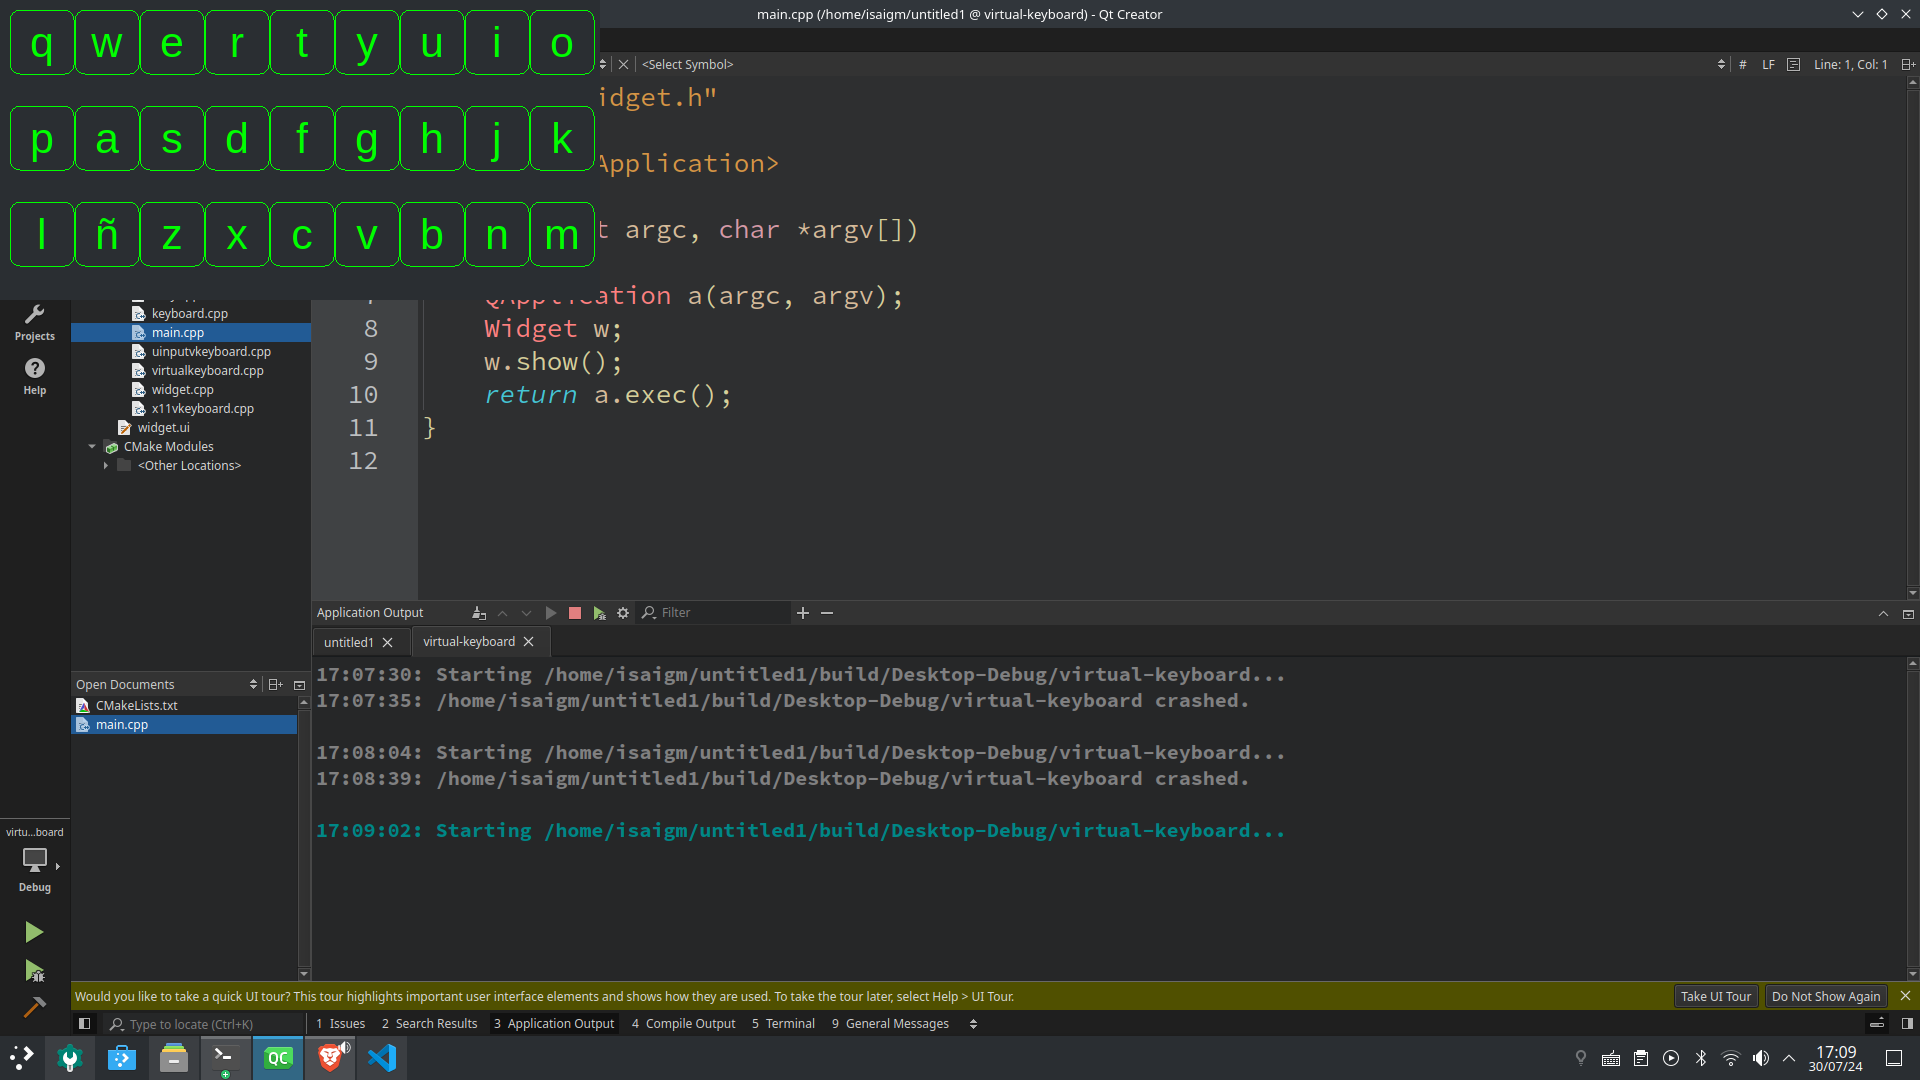
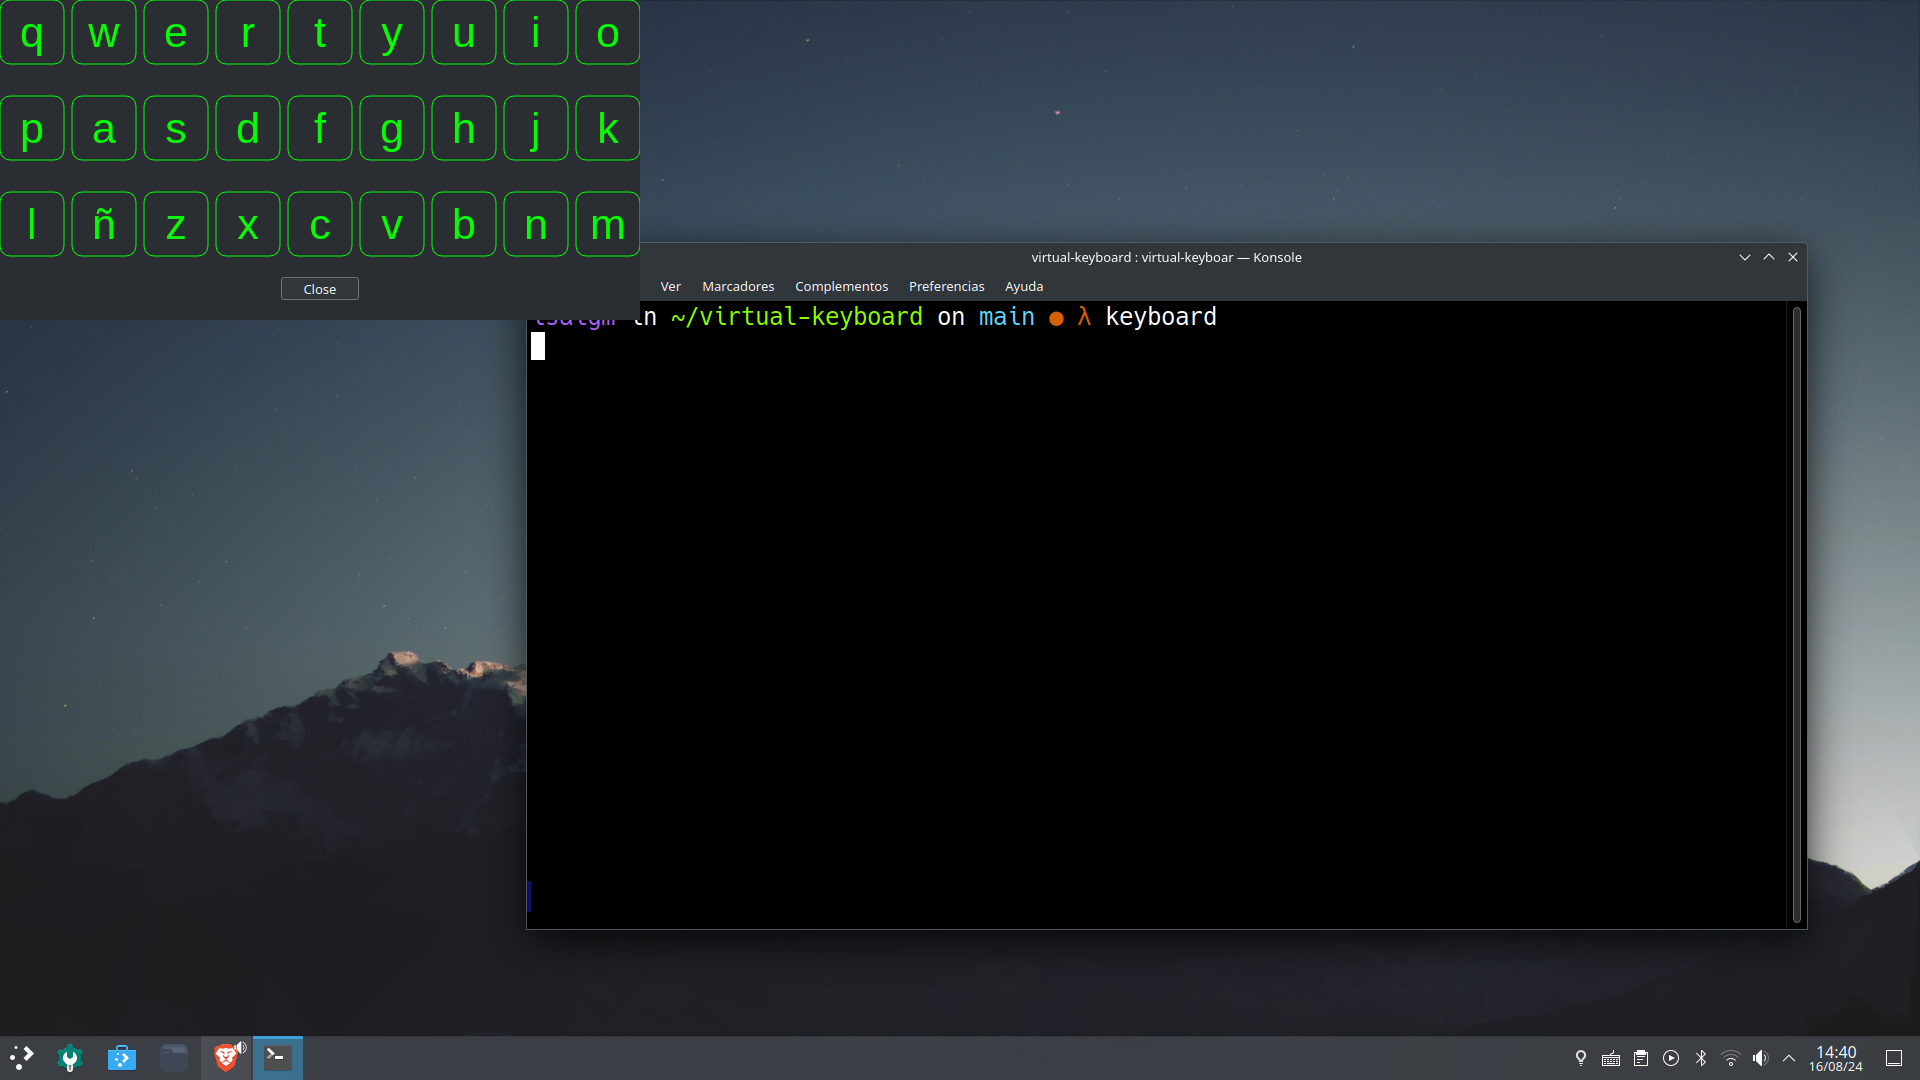
changing keyboard style

diff --git a/keyboard.cpp b/keyboard.cpp
@@ -7,7 +7,7 @@ keyboard::keyboard() : m_keys(NAMES.size()) {
         key.setName(NAMES.at(i));
     }
     int keysPerCol = NAMES.size() / totalRows;
-    float xmargin = 1.0f;
+    float xmargin = 8.0f;
     float ymargin = 32.0f;
     float mx = 0.0f;
     float my = 0.0f;
